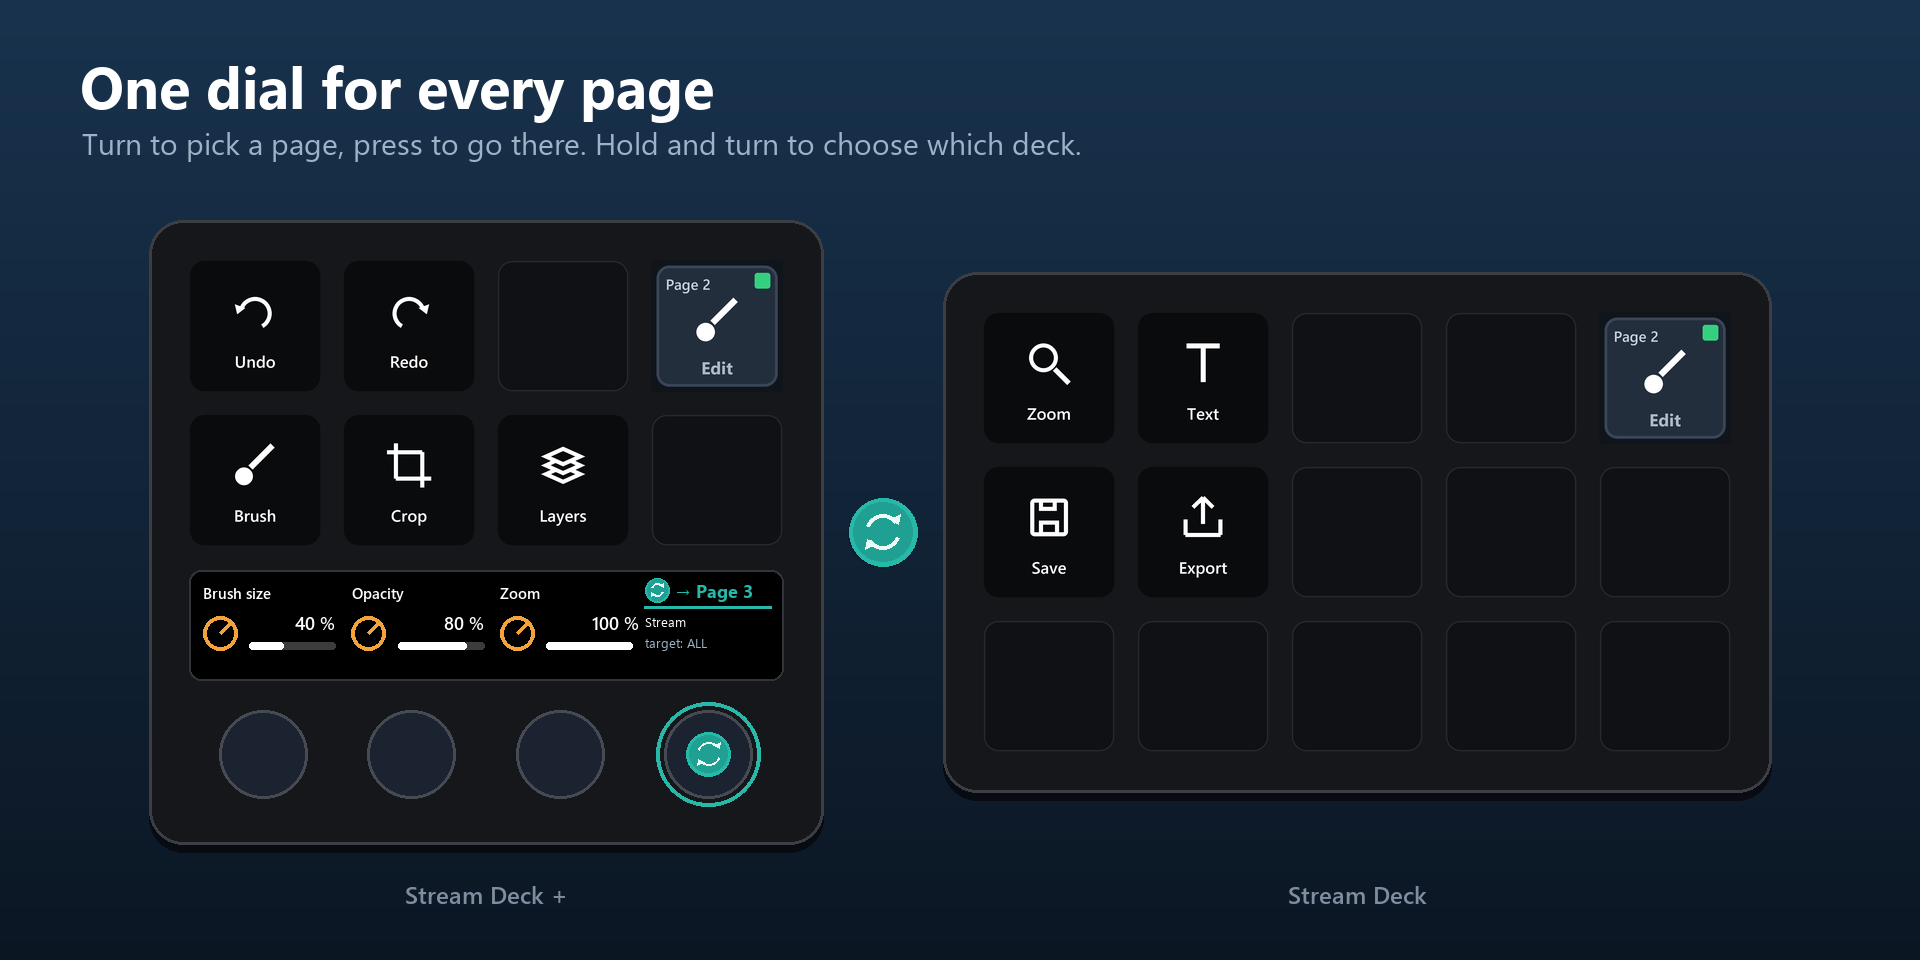
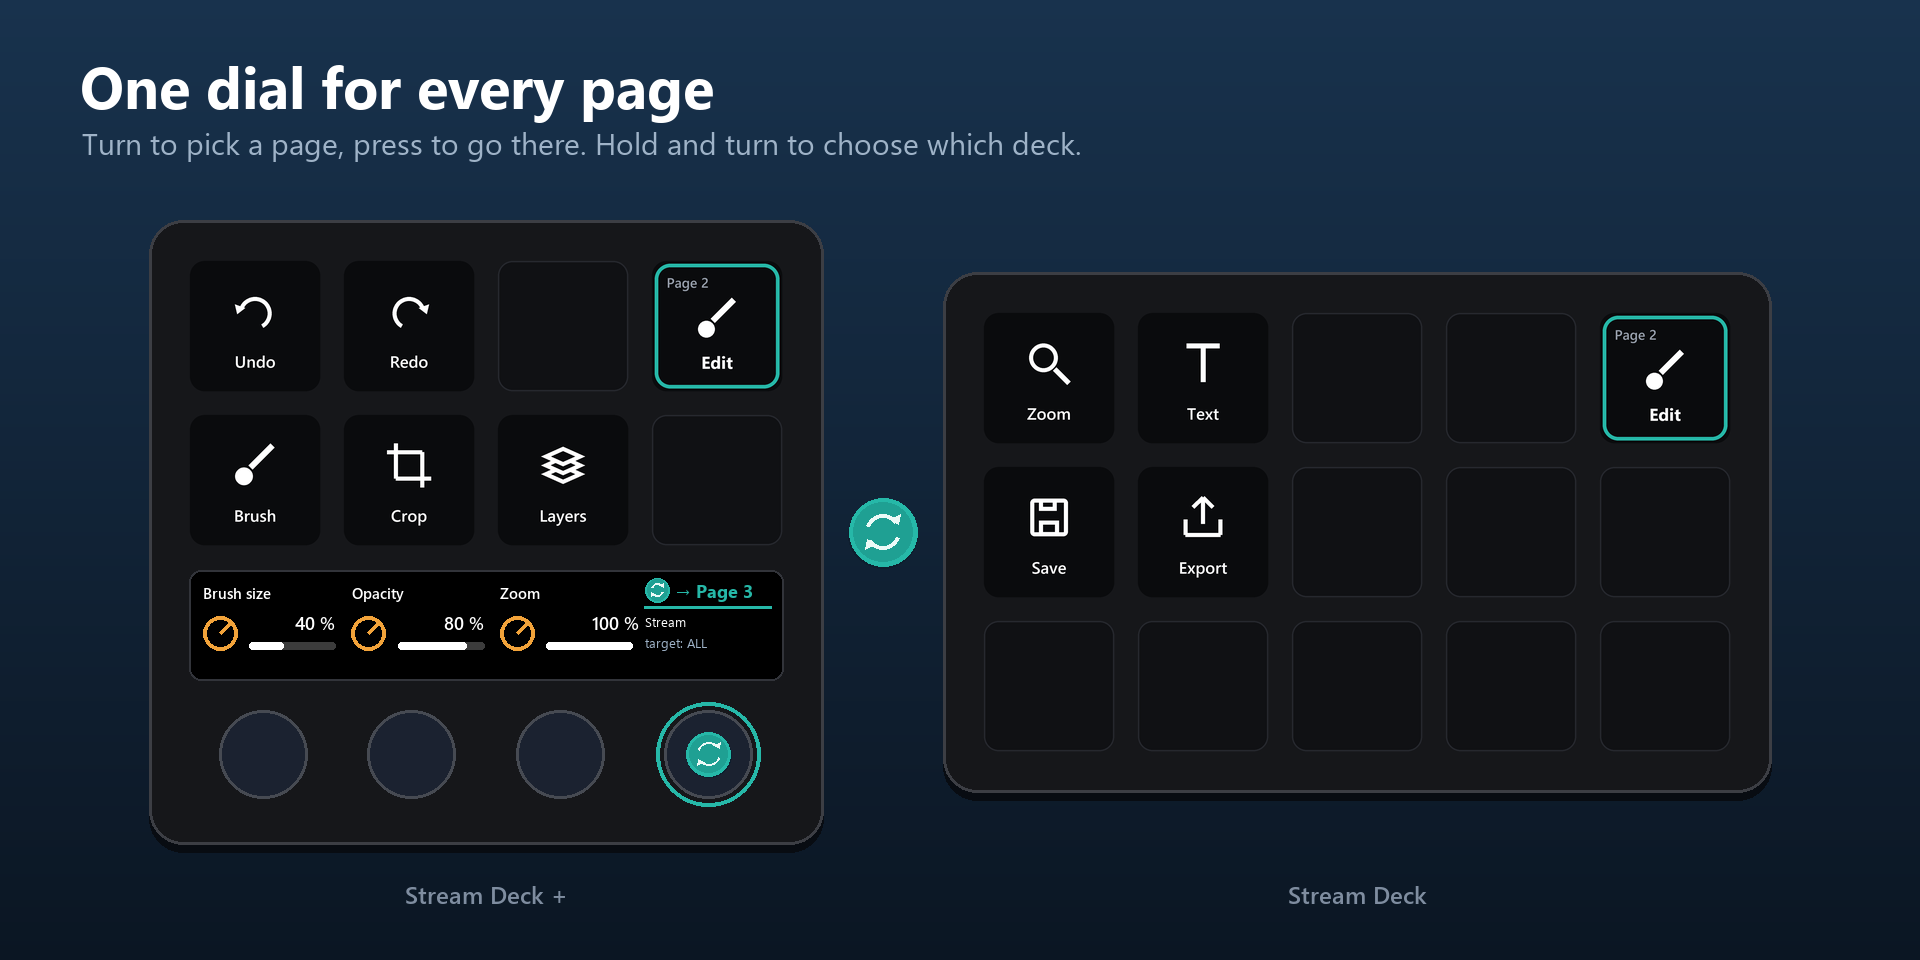
Key style: black key with a frame that lights in the accent colour when in sync; hex colours configurable in settings; illustrations updated

Changed region(s): [[0.8125, 0.3125, 0.9062, 0.4688], [0.3125, 0.25, 0.4062, 0.4062]]

diff --git a/src/plugin.ts b/src/plugin.ts
@@ -108,7 +108,6 @@ const xmlEscape = (t: string): string => t.replace(/[<>&"']/g, (c) => ({ "<": "&
 // ---------------------------------------------------------------------------------------------
 
 const KEY_FONT = `font-family="Segoe UI, Arial, sans-serif"`;
-const LIT = "#35D07F";
 type Fit = { size: number; lines: string[] };
 
 /** Bryter tekst til maks `maxLines` linjer med størst mulig skrift fra `sizes`. */
@@ -162,32 +161,47 @@ type TileOptions = {
 	icon?: string;
 };
 
+/** Standardfarger for tastene. Brukeren kan overstyre dem med hex-koder i innstillingene (globalt). */
+const DEFAULT_COLORS = { accent: "#26B8A8", frame: "#464A52", background: "#0A0B0D", text: "#FFFFFF" };
+type ColorKey = keyof typeof DEFAULT_COLORS;
+
+/** Farge fra innstillingene (`color_<navn>`, f.eks. "#ff8800" eller "f80"), ellers standard. */
+function color(key: ColorKey): string {
+	const v = extraGlobals[`color_${key}`];
+	if (typeof v === "string") {
+		const m = /^#?([0-9a-f]{3}|[0-9a-f]{6})$/i.exec(v.trim());
+		if (m) return `#${m[1]}`;
+	}
+	return DEFAULT_COLORS[key];
+}
+
+/**
+ * Tasten: svart som en vanlig Stream Deck-tast, med en tynn ramme som lyser i aksentfargen når decket er i synk.
+ * Sidenummer oppe til venstre, ikon, navn, og eventuelt et notat nederst.
+ */
 function tileSvg(text: string, { number = "", note = "", lit = false, dim = false, icon = "" }: TileOptions = {}): string {
-	const fill = dim ? "#161C25" : "#232E3D";
-	const textColor = dim ? "#3A4657" : "#FFFFFF";
+	const textColor = color("text");
 	const hasNumber = number !== "";
 	const hasNote = note !== "";
-	const top0 = hasNumber ? 34 : 12;
-	const bottom0 = hasNote ? 112 : 132;
+	const top0 = hasNumber ? 36 : 14;
+	const bottom0 = hasNote ? 112 : 130;
 	const iconSvg = icon && !dim ? iconMarkup(icon, 22, top0, 100, bottom0 - top0 - 26) : "";
 	const hasImage = iconSvg !== "";
 	const sizes = hasImage ? [20, 18, 16, 14] : hasNumber || hasNote ? [27, 24, 21, 18, 16] : [36, 31, 27, 23, 20];
-	const label = fitText(text, 120, sizes, hasImage ? 1 : 2);
+	const label = fitText(text, 116, sizes, hasImage ? 1 : 2);
 	const small = (x: number, y: number, anchor: string, value: string, opacity: number): string =>
-		`<text x="${x}" y="${y}" font-size="16" font-weight="600" fill="${dim ? "#55637A" : textColor}" fill-opacity="${opacity}" text-anchor="${anchor}" ${KEY_FONT}>${xmlEscape(value)}</text>`;
+		`<text x="${x}" y="${y}" font-size="15" font-weight="600" fill="${textColor}" fill-opacity="${opacity}" text-anchor="${anchor}" ${KEY_FONT}>${xmlEscape(value)}</text>`;
 	const labelY = hasImage ? bottom0 - 12 : (top0 + bottom0) / 2 + (hasNumber ? 2 : 0);
-	// Med ikon (hvitt) over navnet får navnet en lys grå, så de to ikke flyter sammen.
-	const labelColor = hasImage && !dim ? "#AEB9C7" : textColor;
 	return (
 		`<svg xmlns="http://www.w3.org/2000/svg" width="144" height="144" viewBox="0 0 144 144">` +
-		`<rect width="144" height="144" fill="#10151C"/>` +
-		`<rect x="6" y="6" width="132" height="132" rx="14" fill="${fill}" stroke="${dim ? "#232E3D" : "#3A4657"}" stroke-width="3"/>` +
+		`<rect width="144" height="144" fill="${color("background")}"/>` +
+		`<rect x="5" y="5" width="134" height="134" rx="18" fill="none" stroke="${lit ? color("accent") : color("frame")}" stroke-width="${lit ? 4 : 3}"/>` +
+		`<g opacity="${dim ? 0.4 : 1}">` +
 		iconSvg +
-		textBlock(label, labelY, labelColor, 700) +
-		(hasNumber ? small(16, 28, "start", number, dim ? 1 : 0.75) : "") +
-		(hasNote ? small(72, 129, "middle", note, 0.6) : "") +
-		(hasNumber ? `<rect x="113" y="14" width="17" height="17" rx="3" fill="${lit ? LIT : dim ? "#1B222C" : "#0E1319"}" stroke="${lit ? LIT : "#3A4657"}" stroke-width="1.5"/>` : "") +
-		`</svg>`
+		textBlock(label, labelY, textColor, 700) +
+		(hasNumber ? small(17, 30, "start", number, 0.6) : "") +
+		(hasNote ? small(72, 128, "middle", note, 0.6) : "") +
+		`</g></svg>`
 	);
 }
 
@@ -736,7 +750,6 @@ const row = (value: string, size: number, color = "#ffffff", weight = 400, align
 const EMPTY_ROW = row("", 14);
 const DIM = "#7f8da0";
 const GREY = "#9fb3c8";
-const CYAN = "#26b8a8";
 type StripFeedback = { r1: StripRow; r2: StripRow; r3: StripRow; r4: StripRow };
 const emptyStrip = (): StripFeedback => ({ r1: EMPTY_ROW, r2: EMPTY_ROW, r3: EMPTY_ROW, r4: EMPTY_ROW });
 
@@ -759,13 +772,13 @@ function statusFeedback(): StripFeedback {
 	const inSyncAll = decks.length > 1 && !!first && pages.every((p) => p === first);
 	let lines: string[];
 	if (inSyncAll) {
-		out.r1 = row(`ALL: Page ${first}`, 20, CYAN, 700);
+		out.r1 = row(`ALL: Page ${first}`, 20, color("accent"), 700);
 		lines = decks.map((d, i) => {
 			const title = pageNameFor(first, d);
 			return title ? `${deckTag(d, i)} - ${title}` : deckTag(d, i);
 		});
 	} else if (decks.length === 1) {
-		out.r1 = row(`Page ${first ?? "–"}`, 20, CYAN, 700);
+		out.r1 = row(`Page ${first ?? "–"}`, 20, color("accent"), 700);
 		const title = first ? pageNameFor(first, decks[0]!) : undefined;
 		lines = [title ? `${deckTag(decks[0]!, 0)} - ${title}` : deckTag(decks[0]!, 0)];
 	} else {
@@ -787,13 +800,13 @@ function statusFeedback(): StripFeedback {
 function selectionFeedback(): StripFeedback {
 	const out = emptyStrip();
 	if (holding) {
-		out.r1 = row("TURN: DECK", 20, CYAN, 700);
+		out.r1 = row("TURN: DECK", 20, color("accent"), 700);
 		out.r2 = row(`target: ${targetLabel()}`, 15);
 		return out;
 	}
 	const targetDevice = target === "all" ? undefined : streamDeck.devices.getDeviceById(target);
 	const name = targetDevice ? pageNameFor(dialPage, targetDevice) : pageNameAll(dialPage);
-	out.r1 = row(`→ Page ${dialPage}`, 20, CYAN, 700);
+	out.r1 = row(`→ Page ${dialPage}`, 20, color("accent"), 700);
 	out.r2 = row(name ?? "", 15);
 	out.r3 = row(`target: ${targetLabel()}`, 13, GREY);
 	return out;
@@ -816,7 +829,8 @@ function showSelection(): void {
 
 async function refreshDial(a: DialAction<JsonObject>): Promise<void> {
 	try {
-		await a.setFeedback(holding || Date.now() < selectionUntil ? selectionFeedback() : statusFeedback());
+		const accent = color("accent");
+		await a.setFeedback({ ...(holding || Date.now() < selectionUntil ? selectionFeedback() : statusFeedback()), line: { value: 100, bar_bg_c: accent, bar_fill_c: accent } });
 	} catch {
 		/* ignorer */
 	}

diff --git a/app.decksync.sdPlugin/ui/names.html b/app.decksync.sdPlugin/ui/names.html
@@ -10,8 +10,23 @@
 		<sdpi-item label="Deck names"><span style="color:#999">Fetching decks…</span></sdpi-item>
 	</div>
 	<p style="color:#999;font-size:11px;margin:8px 12px;line-height:1.4">
-		The deck name is shown on the page dial ("Programming · p3 → Lights") and on the Target key. Names are shared by all page dials and Target keys. Empty = the device's own name.<br>
+		The deck name is shown on the page dial ("Deck1 - Edit") and on the Target key. Names are shared by all page dials and Target keys. Empty = the device's own name.<br>
 		Page names come from the Stream Deck app: name the pages of the DeckSync profiles there, and the dial, the page markers and Go to page pick them up.
+	</p>
+	<sdpi-item label="Accent colour">
+		<sdpi-textfield global setting="color_accent" pattern="#?([0-9a-fA-F]{3}|[0-9a-fA-F]{6})" placeholder="#26B8A8"></sdpi-textfield>
+	</sdpi-item>
+	<sdpi-item label="Frame colour">
+		<sdpi-textfield global setting="color_frame" pattern="#?([0-9a-fA-F]{3}|[0-9a-fA-F]{6})" placeholder="#464A52"></sdpi-textfield>
+	</sdpi-item>
+	<sdpi-item label="Background">
+		<sdpi-textfield global setting="color_background" pattern="#?([0-9a-fA-F]{3}|[0-9a-fA-F]{6})" placeholder="#0A0B0D"></sdpi-textfield>
+	</sdpi-item>
+	<sdpi-item label="Text colour">
+		<sdpi-textfield global setting="color_text" pattern="#?([0-9a-fA-F]{3}|[0-9a-fA-F]{6})" placeholder="#FFFFFF"></sdpi-textfield>
+	</sdpi-item>
+	<p style="color:#999;font-size:11px;margin:8px 12px;line-height:1.4">
+		Colours are hex codes, e.g. #FF8800, and apply to every DeckSync key and the dial strip. The accent lights the frame when the decks are in sync. Empty = default.
 	</p>
 	<script>
 		(async () => {

diff --git a/app.decksync.sdPlugin/ui/indicator.html b/app.decksync.sdPlugin/ui/indicator.html
@@ -13,6 +13,21 @@
 		Shows the page that deck is on: the page name from the Stream Deck app, with "p3" underneath. Another deck's name is shown at the top.<br>
 		Press: take this deck to the shown page. When it shows its own deck, a press forces a resync of the others.
 	</p>
+	<sdpi-item label="Accent colour">
+		<sdpi-textfield global setting="color_accent" pattern="#?([0-9a-fA-F]{3}|[0-9a-fA-F]{6})" placeholder="#26B8A8"></sdpi-textfield>
+	</sdpi-item>
+	<sdpi-item label="Frame colour">
+		<sdpi-textfield global setting="color_frame" pattern="#?([0-9a-fA-F]{3}|[0-9a-fA-F]{6})" placeholder="#464A52"></sdpi-textfield>
+	</sdpi-item>
+	<sdpi-item label="Background">
+		<sdpi-textfield global setting="color_background" pattern="#?([0-9a-fA-F]{3}|[0-9a-fA-F]{6})" placeholder="#0A0B0D"></sdpi-textfield>
+	</sdpi-item>
+	<sdpi-item label="Text colour">
+		<sdpi-textfield global setting="color_text" pattern="#?([0-9a-fA-F]{3}|[0-9a-fA-F]{6})" placeholder="#FFFFFF"></sdpi-textfield>
+	</sdpi-item>
+	<p style="color:#999;font-size:11px;margin:8px 12px;line-height:1.4">
+		Colours are hex codes, e.g. #FF8800, and apply to every DeckSync key and the dial strip. The accent lights the frame when the decks are in sync. Empty = default.
+	</p>
 	<script>
 		(async () => {
 			const { streamDeckClient } = SDPIComponents;

diff --git a/app.decksync.sdPlugin/ui/step.html b/app.decksync.sdPlugin/ui/step.html
@@ -24,5 +24,20 @@
 		A page dial for decks without one. The key shows the page it goes to, with that page's name and icon from the Stream Deck app.<br>
 		"Next, hold for previous" puts both directions on one key, handy on small decks.
 	</p>
+	<sdpi-item label="Accent colour">
+		<sdpi-textfield global setting="color_accent" pattern="#?([0-9a-fA-F]{3}|[0-9a-fA-F]{6})" placeholder="#26B8A8"></sdpi-textfield>
+	</sdpi-item>
+	<sdpi-item label="Frame colour">
+		<sdpi-textfield global setting="color_frame" pattern="#?([0-9a-fA-F]{3}|[0-9a-fA-F]{6})" placeholder="#464A52"></sdpi-textfield>
+	</sdpi-item>
+	<sdpi-item label="Background">
+		<sdpi-textfield global setting="color_background" pattern="#?([0-9a-fA-F]{3}|[0-9a-fA-F]{6})" placeholder="#0A0B0D"></sdpi-textfield>
+	</sdpi-item>
+	<sdpi-item label="Text colour">
+		<sdpi-textfield global setting="color_text" pattern="#?([0-9a-fA-F]{3}|[0-9a-fA-F]{6})" placeholder="#FFFFFF"></sdpi-textfield>
+	</sdpi-item>
+	<p style="color:#999;font-size:11px;margin:8px 12px;line-height:1.4">
+		Colours are hex codes, e.g. #FF8800, and apply to every DeckSync key and the dial strip. The accent lights the frame when the decks are in sync. Empty = default.
+	</p>
 </body>
 </html>

diff --git a/app.decksync.sdPlugin/ui/marker.html b/app.decksync.sdPlugin/ui/marker.html
@@ -21,5 +21,20 @@
 		"Others go to page" maps pages freely, e.g. page 2 here sends the other decks to page 4. Empty = same number.<br>
 		Press the marker to force a resync.
 	</p>
+	<sdpi-item label="Accent colour">
+		<sdpi-textfield global setting="color_accent" pattern="#?([0-9a-fA-F]{3}|[0-9a-fA-F]{6})" placeholder="#26B8A8"></sdpi-textfield>
+	</sdpi-item>
+	<sdpi-item label="Frame colour">
+		<sdpi-textfield global setting="color_frame" pattern="#?([0-9a-fA-F]{3}|[0-9a-fA-F]{6})" placeholder="#464A52"></sdpi-textfield>
+	</sdpi-item>
+	<sdpi-item label="Background">
+		<sdpi-textfield global setting="color_background" pattern="#?([0-9a-fA-F]{3}|[0-9a-fA-F]{6})" placeholder="#0A0B0D"></sdpi-textfield>
+	</sdpi-item>
+	<sdpi-item label="Text colour">
+		<sdpi-textfield global setting="color_text" pattern="#?([0-9a-fA-F]{3}|[0-9a-fA-F]{6})" placeholder="#FFFFFF"></sdpi-textfield>
+	</sdpi-item>
+	<p style="color:#999;font-size:11px;margin:8px 12px;line-height:1.4">
+		Colours are hex codes, e.g. #FF8800, and apply to every DeckSync key and the dial strip. The accent lights the frame when the decks are in sync. Empty = default.
+	</p>
 </body>
 </html>

diff --git a/tools/gen-promo.py b/tools/gen-promo.py
@@ -170,6 +170,30 @@ def ukey(label, glyph, fill=None):
     return img.resize((KEY, KEY), Image.LANCZOS)
 
 
+def dtile(text, number="", note="", glyph=None, lit=None, big=False):
+    """DeckSync-tast slik pluginen tegner den: svart, tynn ramme som lyser i aksentfargen i synk."""
+    S, q = 576, 4
+    img, d = blank()
+    d.rounded_rectangle((16, 16, S - 16, S - 16), radius=68, outline=CYAN if lit else (70, 74, 82), width=16 if lit else 12)
+    if number:
+        d.text((17 * q, 14 * q), number, font=f(15 * q, "semi"), fill=(150, 158, 170))
+    if glyph:
+        glyph(d, 72 * q, 64 * q, q * 1.15, WHITE, int(4.5 * q))
+        fo = f(19 * q, "bold")
+        tw = d.textlength(text, font=fo)
+        d.text(((S - tw) / 2, (88 if note else 98) * q), text, font=fo, fill=WHITE)
+    else:
+        fo = f((34 if big else 24) * q, "bold")
+        tw = d.textlength(text, font=fo)
+        d.text(((S - tw) / 2, (50 if big else 56) * q), text, font=fo, fill=WHITE)
+    if note:
+        fo = f(14 * q, "semi")
+        tw = d.textlength(note, font=fo)
+        d.text(((S - tw) / 2, 112 * q), note, font=fo, fill=(150, 158, 170))
+    return img.resize((KEY, KEY), Image.LANCZOS)
+
+
+i2.tile = dtile
 U = {
     "undo": ukey("Undo", g_undo), "redo": ukey("Redo", g_redo), "save": ukey("Save", g_save), "export": ukey("Export", g_export),
     "brush": ukey("Brush", g_brush, ORANGE), "crop": ukey("Crop", g_crop), "layers": ukey("Layers", g_layers), "text": ukey("Text", g_text),
@@ -181,7 +205,7 @@ U = {
     "lights": ukey("Lights", gi.g_light),
 }
 PAGES = {1: ("Home", gi.g_home), 2: ("Edit", g_brush), 3: ("Stream", g_rec), 4: ("Music", g_note)}
-mk = lambda p, lit=True: il.marker(p, PAGES[p][0], PAGES[p][1], lit)
+mk = lambda p, lit=True: dtile(PAGES[p][0], f"Page {p}", "", PAGES[p][1], lit=lit)
 stp = lambda p, prev=False: i2.step(p, PAGES[p][0], PAGES[p][1], prev)
 
 E = empty()

diff --git a/README.md b/README.md
@@ -20,7 +20,7 @@ DeckSync is a plugin for the Elgato Stream Deck app. Connect two or more Stream 
 
 ## Examples
 
-**Follow mode.** Both decks on page 2. The page markers show the page name and icon, the green square means the decks are in sync, and the strip reads `ALL: Page 2`.
+**Follow mode.** Both decks on page 2. The page markers show the page name and icon, the lit frame means the decks are in sync, and the strip reads `ALL: Page 2`.
 
 ![Every deck on the same page](docs/examples/1-follow.png)
 
@@ -94,7 +94,7 @@ Right-click DeckSync in the actions list and choose Uninstall. The DeckSync prof
 ## Actions
 
 ### Page marker
-One per page. The key shows the page's name and icon from the Stream Deck app, with "Page 3" in the corner and a square that lights up when the other decks are on the same page. Setting **This page** is the page number the marker sits on (pre-filled in the DeckSync profiles). **Others go to page** maps pages freely, e.g. page 2 on this deck sends the others to page 4. Pressing a marker forces a resync.
+One per page. The key shows the page's name and icon from the Stream Deck app, with "Page 3" in the corner and a frame that lights up when the other decks are on the same page. Setting **This page** is the page number the marker sits on (pre-filled in the DeckSync profiles). **Others go to page** maps pages freely, e.g. page 2 on this deck sends the others to page 4. Pressing a marker forces a resync.
 
 ### Page indicator
 A display key in the same style as the page marker, placed wherever you like.
@@ -120,6 +120,9 @@ A key that switches the same target as the page dial. Shows the current target a
 
 ### Deck names
 Open the settings of any Page dial or Target key. One text field per connected deck lets you name it. Names are shared by every dial and Target key.
+
+### Colours
+Every DeckSync key is a black key with a thin frame that lights up in the accent colour when the decks are in sync. Open the settings of a Page marker, Page indicator, Page step, Page dial or Target key to set your own hex codes for the accent, the frame, the background and the text. The colours apply to all DeckSync keys and the dial strip.
 
 ### Page names
 Pages are named in the Stream Deck app, in the DeckSync profile of each deck. DeckSync reads those names from the app's profile files and updates the markers, the dial and the Go to page lists within a second. With target ALL, the dial shows a page name when every deck agrees on it, otherwise "Page 3".
